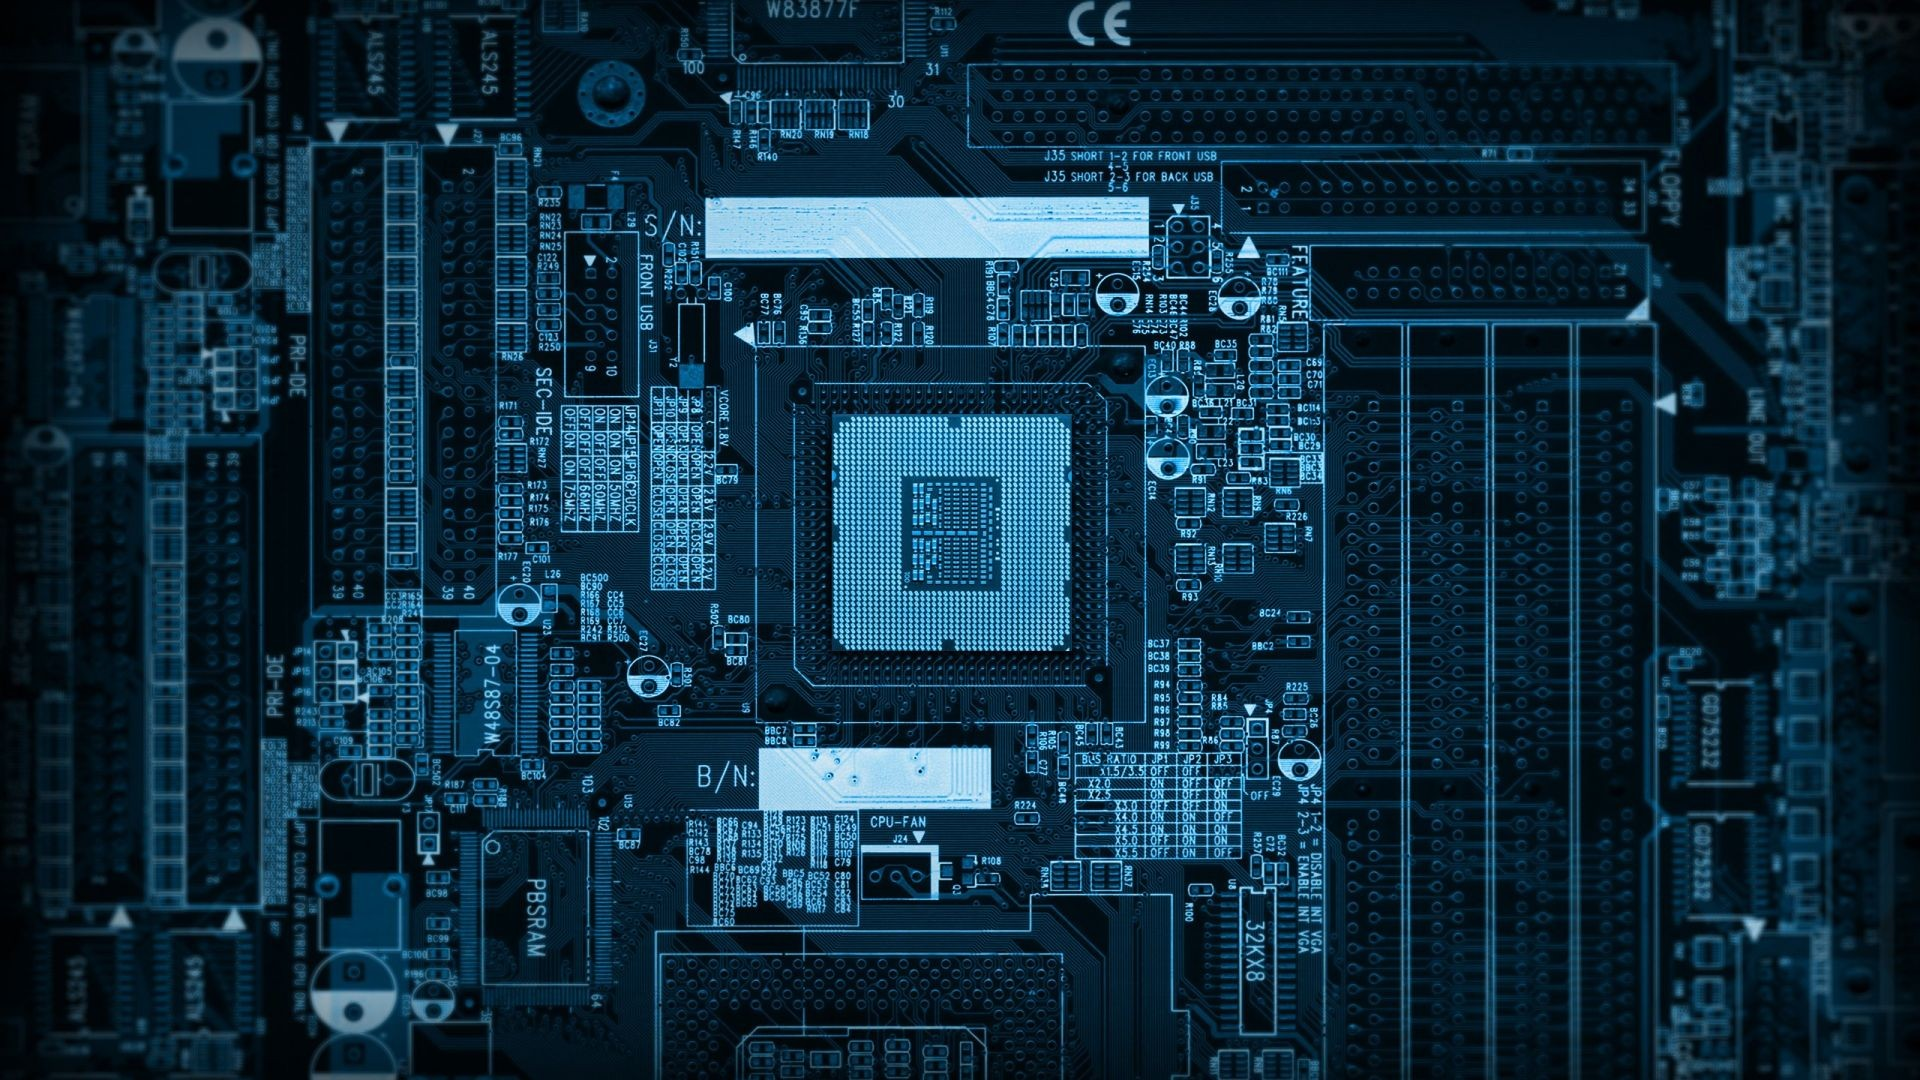
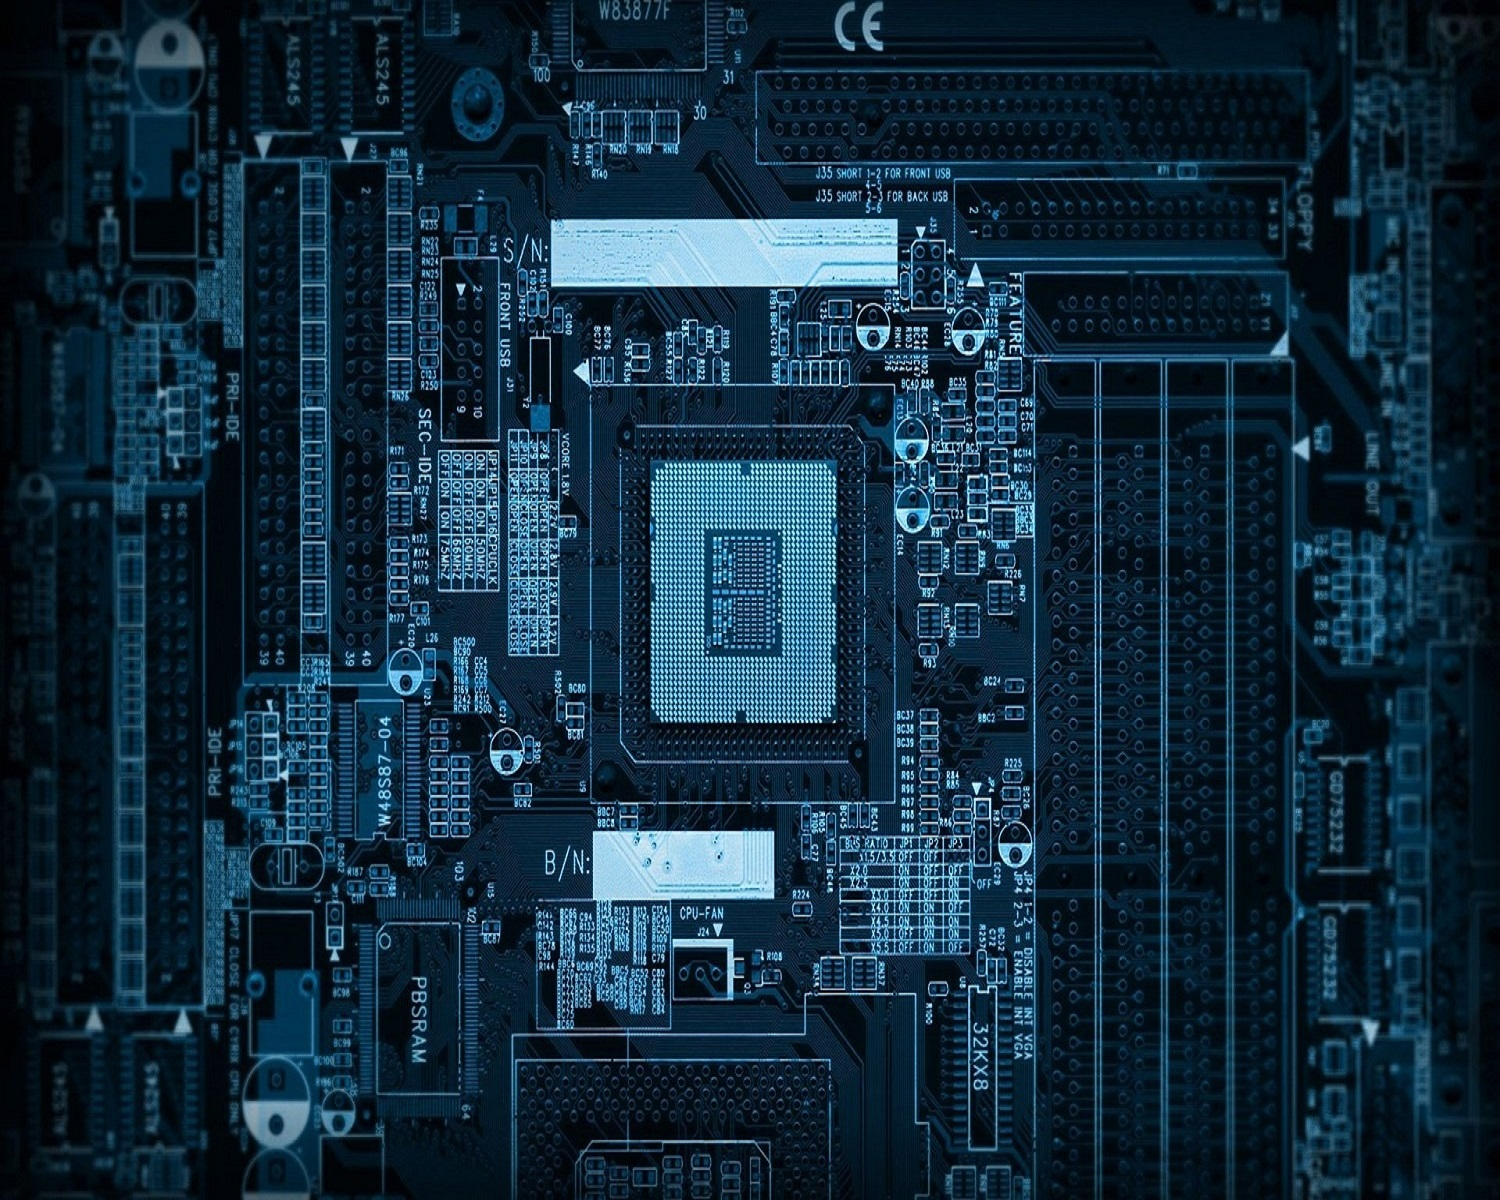
background of counter resized

diff --git a/src/blogs/blog1.html b/src/blogs/blog1.html
@@ -50,7 +50,28 @@
 		
     </head>
     <body>
-	
+		<!-- Fb comments plugin -->
+		
+		<div id="fb-root"></div>
+<script async defer crossorigin="anonymous" src="https://connect.facebook.net/en_US/sdk.js#xfbml=1&version=v10.0&appId=1205435063219912&autoLogAppEvents=1" nonce="h1tNwQVX"></script>
+<script>(function(d, s, id) {
+	var js, fjs = d.getElementsByTagName(s)[0];
+	if (d.getElementById(id)) return;
+	js = d.createElement(s); js.id = id;
+	js.src = "//connect.facebook.net/el_GR/all.js#xfbml=1&appId=1205435063219912";
+	fjs.parentNode.insertBefore(js, fjs);
+  }(document, 'script', 'facebook-jssdk'));</script>
+
+<!-- 
+<script>(function(d, s, id) {
+	var js, fjs = d.getElementsByTagName(s)[0];
+	if (d.getElementById(id)) return;
+	js = d.createElement(s); js.id = id;
+	js.src = "//connect.facebook.net/en_GB/sdk.js#xfbml=1&version=v2.4";
+	fjs.parentNode.insertBefore(js, fjs);
+  }(document, 'script', 'facebook-jssdk'));
+  </script> -->
+  <div class="fb-comments" data-href="https://avijitacharjee.github.io/src/blogs/blog1.html" data-width="500" data-numposts="5"></div>
 		<!-- Preloader -->
 		<div class="loader">
 			<div class="loader-inner">
@@ -204,16 +225,27 @@
 										<!--/ End Next Prev -->
 										<div class="blog-share">
 											<ul>
-												<li><a href="#"><i class="fa fa-facebook"></i></a></li>
+												<!-- <iframe src="https://www.facebook.com/plugins/share_button.php?href=https%3A%2F%2Favijitacharjee.github.io%2Fsrc%2Fblogs%2Fblog1.html&layout=button_count&size=small&appId=316180286470766&width=77&height=20" width="77" height="20" style="border:none;overflow:hidden" scrolling="no" frameborder="0" allowfullscreen="true" allow="autoplay; clipboard-write; encrypted-media; picture-in-picture; web-share"></iframe> -->
+												<li><a href=""><i class="fa fa-facebook"></i></a></li>
 												<li><a href="#"><i class="fa fa-twitter"></i></a></li>
 												<li><a href="#"><i class="fa fa-google-plus"></i></a></li>
 												<li><a href="#"><i class="fa fa-linkedin"></i></a></li>
 											</ul>
+											
 										</div>
 									</div>
 								</div>						
 								<!--/ End Single Blog -->
 							</div>	
+
+							
+							<div class="col-md-12 col-sm-12 col-xs-12">
+								<div class="blog-comments">
+									<div class="fb-comments" data-href="https://avijitacharjee.github.io" data-width="" data-numposts="5"></div>
+								</div>
+							</div>
+
+
 <!-- 							
 							<div class="col-md-12 col-sm-12 col-xs-12">
 								<div class="blog-comments">
@@ -364,7 +396,9 @@
 					<div class="col-md-12 col-sm-12 col-xs-12">
 						<div class="newslatter">
 							<h2><span>Signup</span>Newslatter</h2>
-							<p>Lorem ipsum dolor sit amet, consectetur adipisicing elit. Distinctio tenetur, dolores aperiam, quasi perferendis nemo mollitia labore molestias modi consequatur expedita ad voluptates dolor ex. Impedit quo temporibus, molestiae fugit?</p>
+							<p>
+								Sign up in the newslatter to get informed about my new offers and new blog post.
+							</p>
 						</div>
 						<form class="news-form">
 							<input type="email" placeholder="type your email">
@@ -461,3 +495,6 @@
 		<script type="text/javascript" src="../../js/main.js"></script>
     </body>
 </html>
+<div class="fb-comments" data-href="https://avijitacharjee.github.io" data-width="500" data-numposts="5"></div>
+<div class="fb-comments" data-href="https://developers.facebook.com/docs/plugins/comments#configurator" data-width="100%" data-numposts="5"></div>
+<div class="fb-comments" data-href="https://avijitacharjee.github.io/src/blogs/blog1.html" data-width="100%" data-numposts="5"></div>

diff --git a/index.html b/index.html
@@ -665,7 +665,7 @@
 					<div class="col-md-12 col-sm-12 col-xs-12">
 						<div class="section-title">
 							<h1><span>My</span> Flute Videos<i class="fa fa-briefcase"></i></h1>
-							<!-- <p>It is a long established fact that a reader will be distracted by the readable content of a page when looking at its layout. The point of using Lorem Ipsum is that it has a more-or-less normal distribution of letters, as opposed to using</p> -->
+							<p></p>
 						</div>
 					</div>
 				</div>
